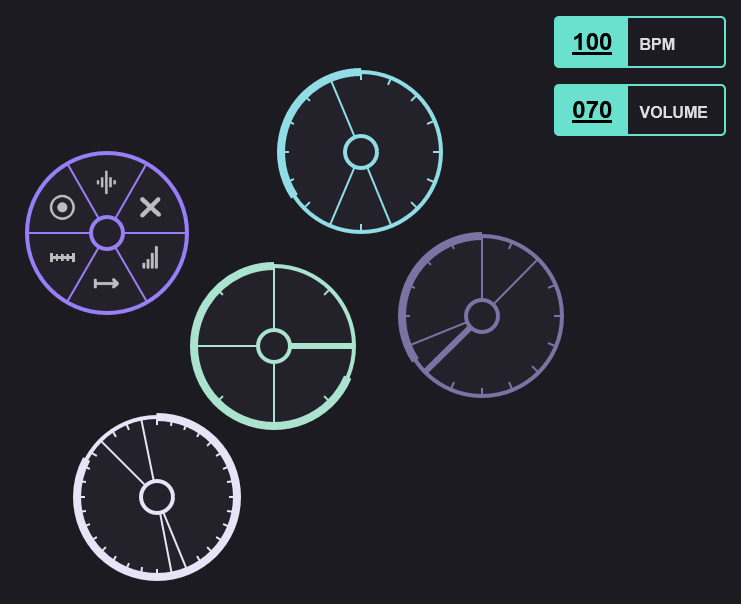
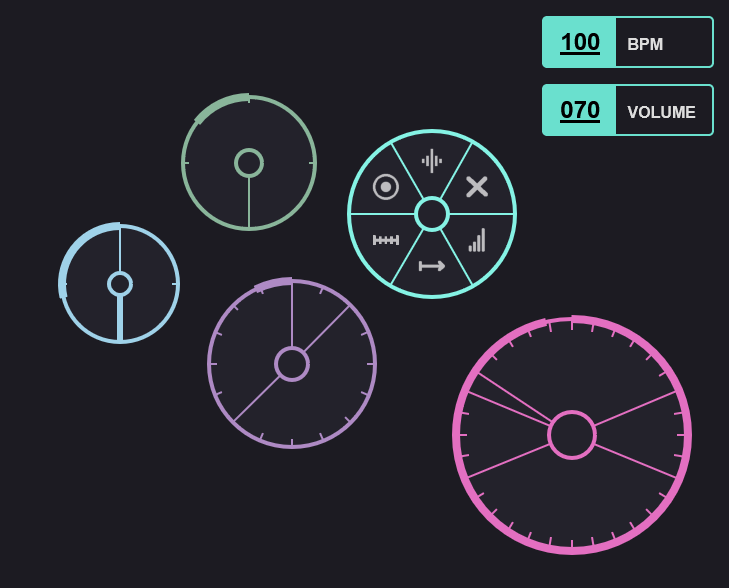
Change radius with length

diff --git a/docs/scripts/clock.js b/docs/scripts/clock.js
@@ -128,6 +128,8 @@ export function Clock(audioCtx) {
 	this.getLength = () => length;
 	this.setLength = function(val) {
 		length = val;
+		radius = 50 * (1 + 2*length/12);
+		handleRadius = 0.2 * radius;
 		this.recalculateBeats();
 		return this;
 	}
@@ -372,7 +374,7 @@ export function Clock(audioCtx) {
 				ctx.lineTo(...endpoint.map(x => Math.floor(x)));
 				ctx.stroke();
 				if (controls[i].image && images[controls[i].image]) {
-					const imagesize = radius / 3;
+					const imagesize = Math.min(radius / 3, 28);
 					const imageradius = handleRadius + (radius - handleRadius) * 0.54;
 					const image = images[controls[i].image];
 					const imagepos = [

diff --git a/README.md b/README.md
@@ -1,3 +1,9 @@
 A different kind of drum machine, visualised in circles.
 
 ![Preview image](./preview.png)
+
+TODO:
+- [ ] Show sample name when changing
+- [ ] Swing
+- [ ] Audio effects
+- [ ] More / better samples
